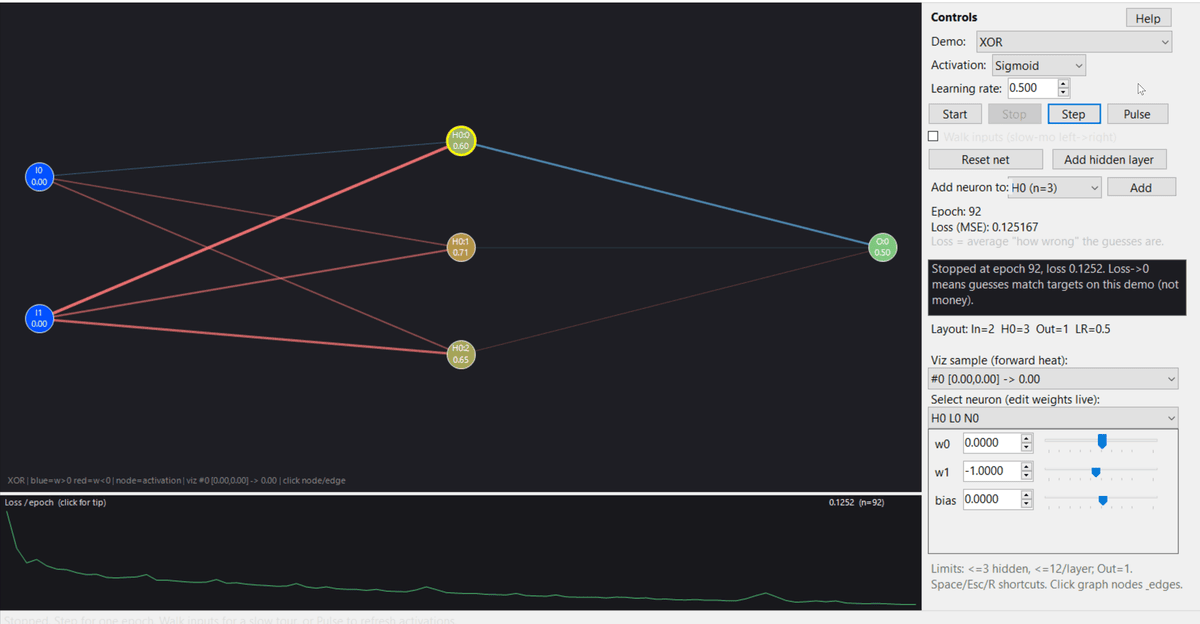
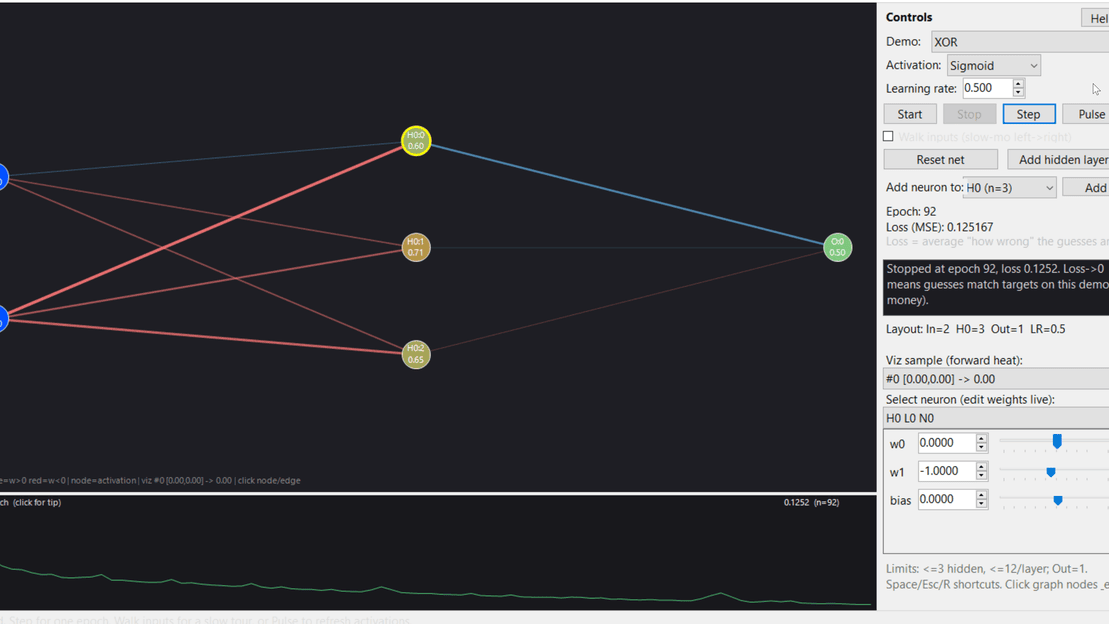
Showcase: add PSDocling and PSCsvSQLiteORM card screenshots

diff --git a/index.html b/index.html
@@ -90,7 +90,13 @@
               <span class="badge badge-lang">PowerShell</span>
               <span class="badge badge-lang">Python</span>
               <span class="badge badge-license">MIT</span>
+              <a class="star-badge" href="https://github.com/joeymiles/PSDocling" rel="noopener noreferrer">
+                <img src="https://img.shields.io/github/stars/joeymiles/PSDocling?style=flat&amp;color=c9854a&amp;labelColor=161b24&amp;cacheSeconds=3600" alt="GitHub stars for PSDocling" width="88" height="20" loading="lazy">
+              </a>
             </div>
+            <a class="project-shot" href="https://github.com/joeymiles/PSDocling" rel="noopener noreferrer">
+              <img src="assets/img/psdocling-demo.png" alt="PSDocling web UI — upload queue and Ready demo documents (demo-data.csv) with export/enrichment options" width="1200" height="675" loading="lazy">
+            </a>
             <h3><a href="https://github.com/joeymiles/PSDocling" rel="noopener noreferrer">PSDocling</a></h3>
             <p>PowerShell + Python Docling document conversion with REST API, processor, and web UI.</p>
             <div class="project-links">
@@ -120,7 +126,13 @@
             <div class="project-meta">
               <span class="badge badge-lang">PowerShell</span>
               <span class="badge badge-license">GPL-2.0</span>
+              <a class="star-badge" href="https://github.com/joeymiles/PSCsvSQLiteORM" rel="noopener noreferrer">
+                <img src="https://img.shields.io/github/stars/joeymiles/PSCsvSQLiteORM?style=flat&amp;color=c9854a&amp;labelColor=161b24&amp;cacheSeconds=3600" alt="GitHub stars for PSCsvSQLiteORM" width="88" height="20" loading="lazy">
+              </a>
             </div>
+            <a class="project-shot" href="https://github.com/joeymiles/PSCsvSQLiteORM" rel="noopener noreferrer">
+              <img src="assets/img/pscsvsqliteorm-demo.png" alt="PowerShell CLI demo of PSCsvSQLiteORM — CSV import, relationship discovery, and join query on C:\demo\orm" width="1200" height="675" loading="lazy">
+            </a>
             <h3><a href="https://github.com/joeymiles/PSCsvSQLiteORM" rel="noopener noreferrer">PSCsvSQLiteORM</a></h3>
             <p>CSV → SQLite mini-ORM for Windows PowerShell 5.1 — catalog, relationships, joins, upserts, and migrations.</p>
             <div class="project-links">
